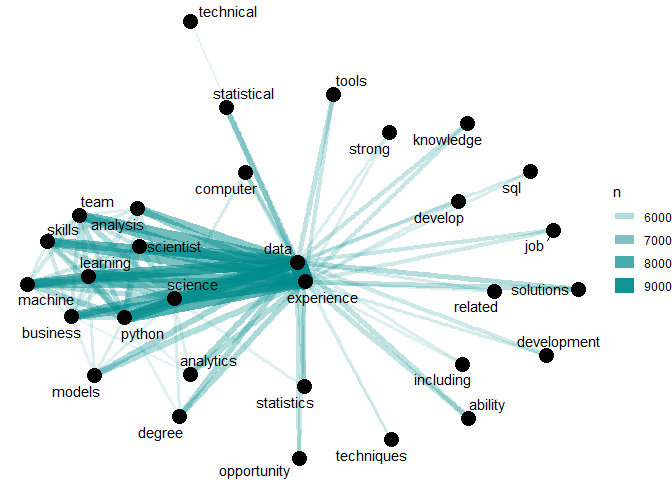
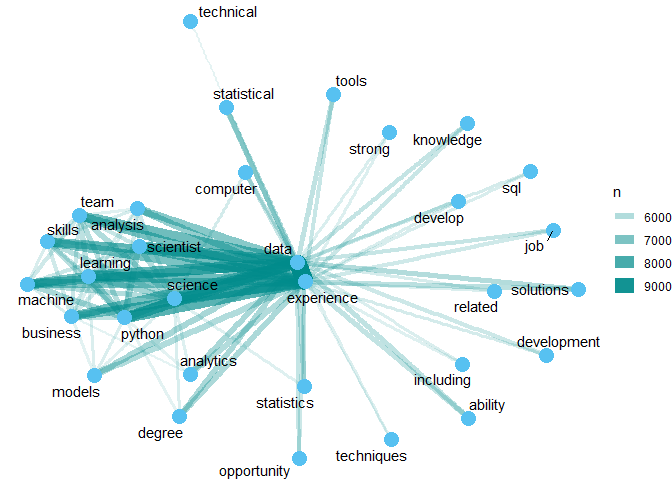
Initial commit

diff --git a/JobPostingsDataScienceAnalysis.md b/JobPostingsDataScienceAnalysis.md
@@ -1818,6 +1818,7 @@ software
 
 ``` r
 library(ggplot2)
+library(hrbrthemes)
 
 job_description_tokenized_counted %>%
   filter(n > 8000) %>%
@@ -1826,7 +1827,7 @@ job_description_tokenized_counted %>%
   geom_col() +
   xlab(NULL) +
   coord_flip() +
-  theme_minimal()
+  theme_modern_rc()
 ```
 
 ![](JobPostingsDataScienceAnalysis_files/figure-gfm/unnamed-chunk-12-1.png)<!-- -->
